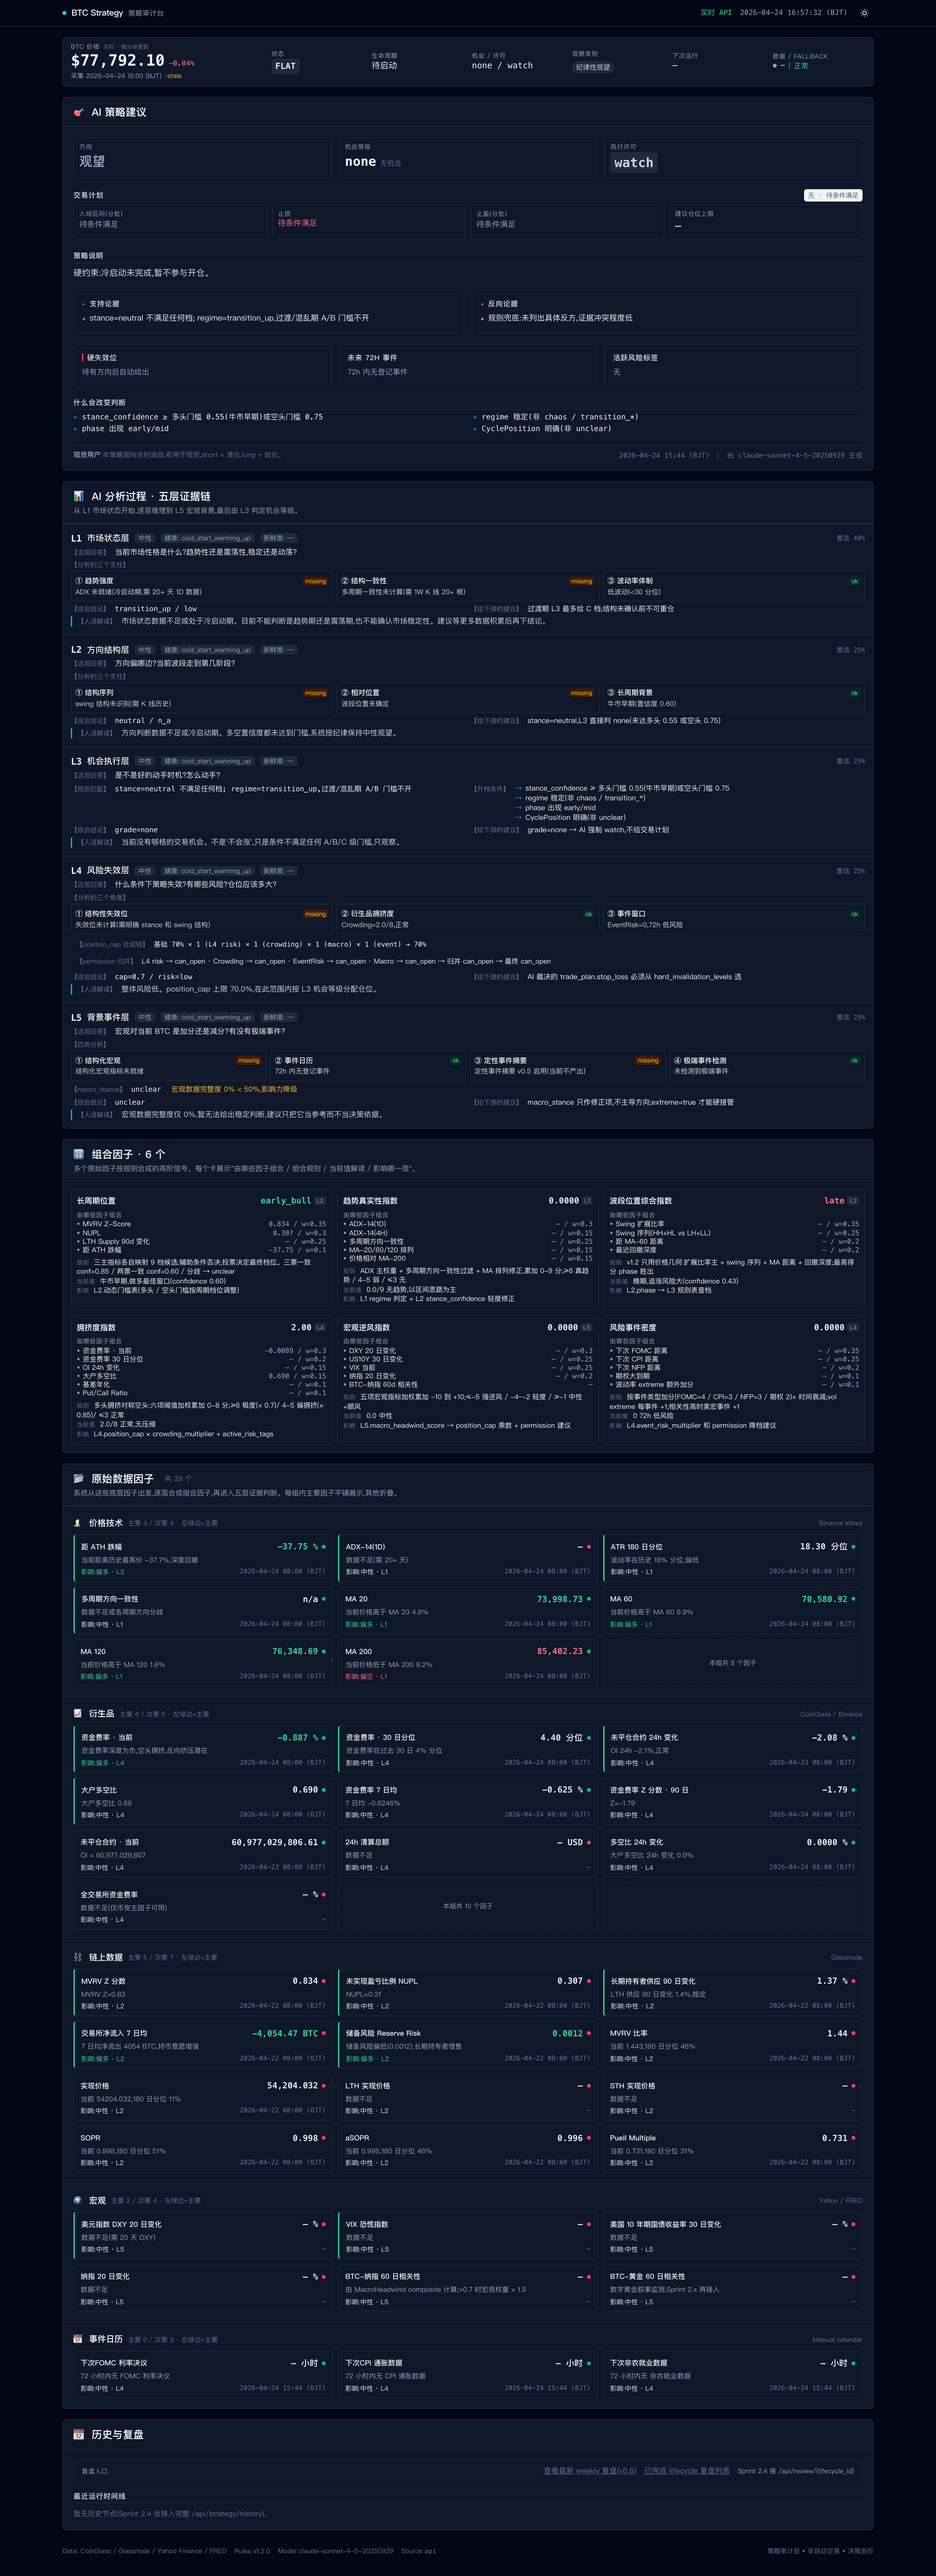
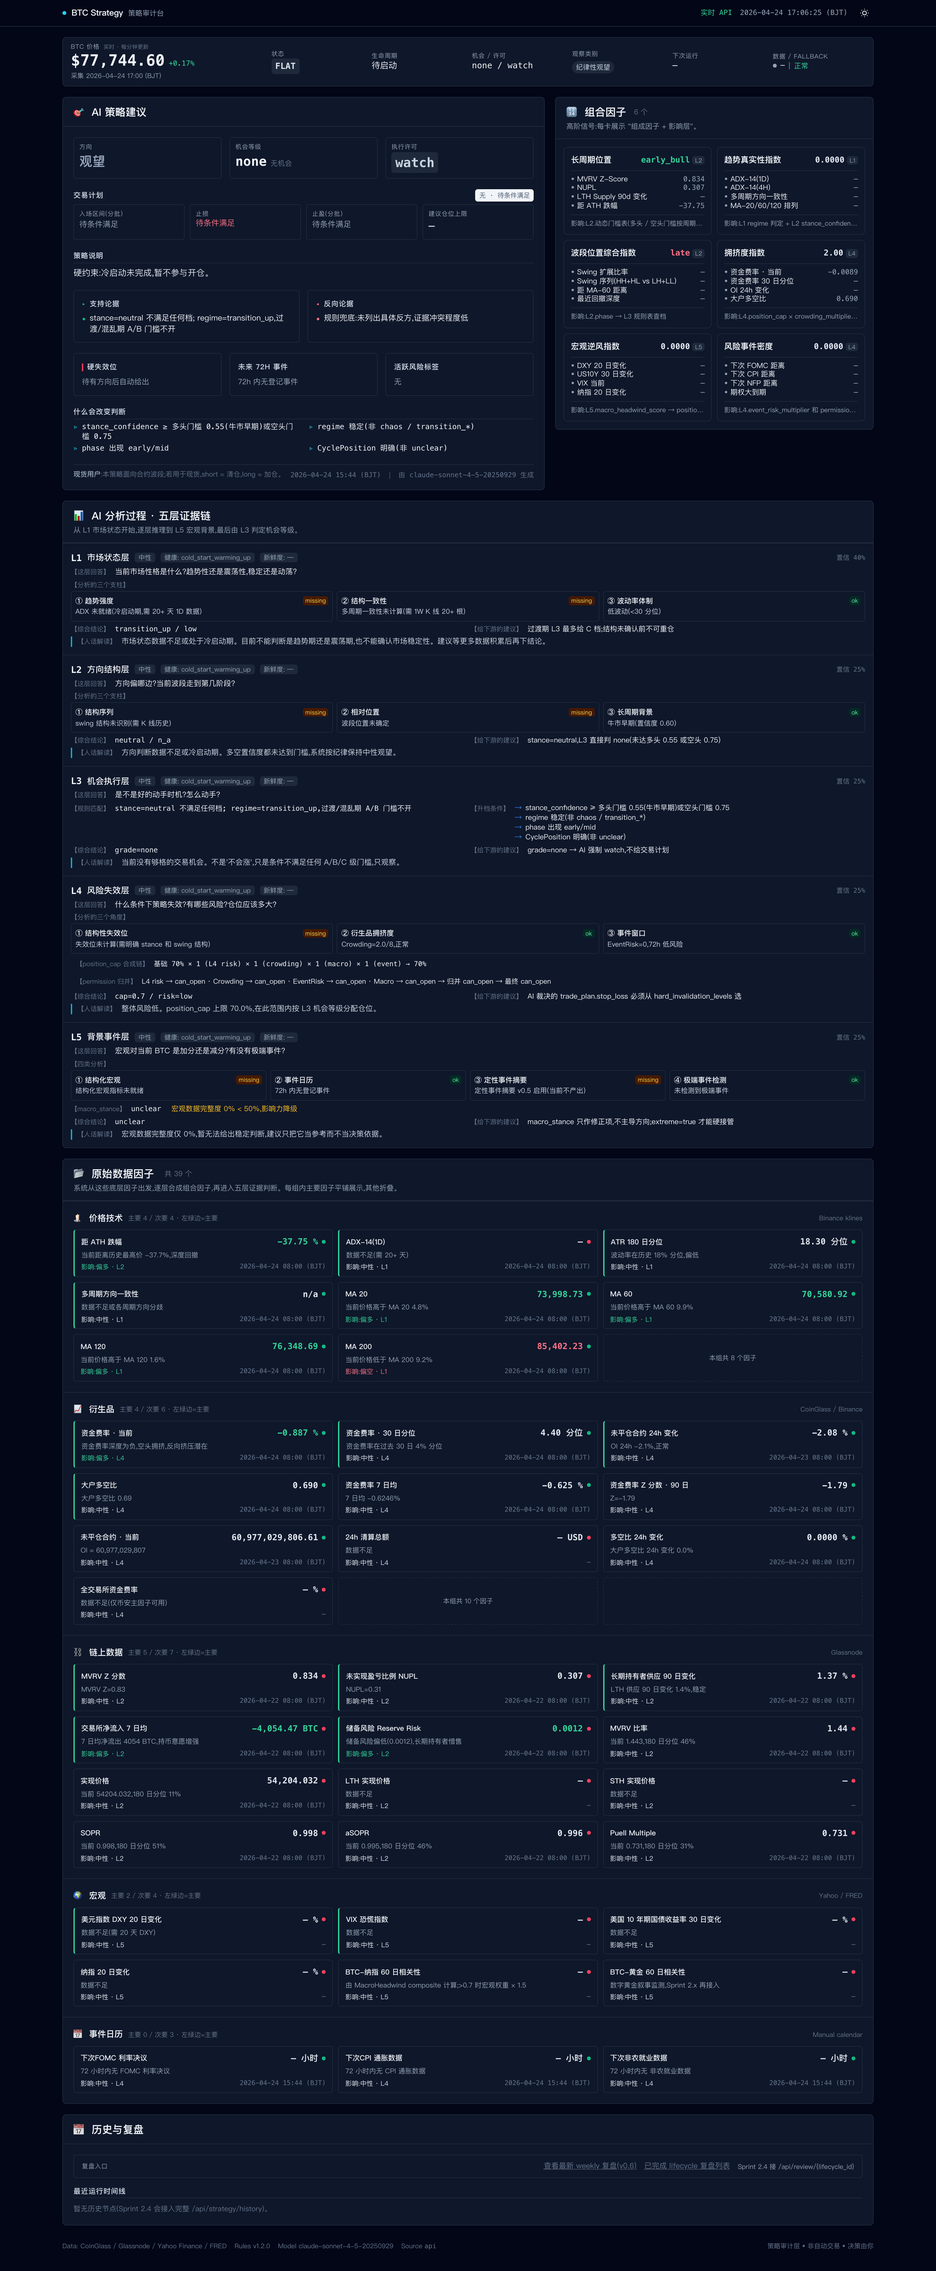
Sprint 2.3 R4: merge region1+3 side-by-side (60:40), compress five-layer pillars, fix [object Object]
- Region 1 (AI 策略) and Region 3 (组合因子) now share a
  lg:grid-cols-5 parent: left col-span-3 (~60%) + right col-span-2 (~40%).
  Mobile (< lg / 1024px) stacks top-to-bottom.
- Region 3 composite cards simplified: title + value/layer header,
  composition list (max 4), "影响:xxx" one-line footer.
  Removed detailed rule/current-value-interp text to match left height.
  Grid inside right col: grid-cols-1 sm:grid-cols-2 → 2 × 3 layout.
- Region 2 five-layer pillars stay compact from prior R4 commit:
  inline labels (text-[10px] slate-500 + mr-1), space-y-1 outer,
  pillar cards p-1.5 with text-[10.5-11px], L5 4-col.
- formatAge(seconds) helper + _freshAgeSec() so freshnessLabel(v)
  renders "green · 2h ago" / "yellow · 15min ago" etc. when
  data_freshness is the object shape {status, age_seconds, captured_at}.
  Still supports string shape for backward compat.

diff --git a/web/index.html b/web/index.html
@@ -157,9 +157,12 @@
     </section>
 
     <!-- ============================================================ -->
-    <!-- 🎯 区域 1:AI 策略建议                                       -->
+    <!-- 🎯 核心建议与高阶信号:区域 1(60% 左)+ 区域 3(40% 右)     -->
+    <!-- Sprint 2.3 R4:lg:grid-cols-5 · 3/2 分栏;手机端自然上下堆叠。-->
     <!-- ============================================================ -->
-    <section id="region-1" class="audit-card">
+    <div class="grid grid-cols-1 lg:grid-cols-5 gap-4 items-start">
+
+    <section id="region-1" class="audit-card lg:col-span-3">
       <header class="px-4 py-2.5 border-b border-slate-200 dark:border-slate-800">
         <h2 class="text-base font-semibold flex items-center gap-2">
           <span>🎯</span><span>AI 策略建议</span>
@@ -386,6 +389,73 @@
       </div>
     </section>
 
+    <!-- 右侧 40%:组合因子紧凑版(2 列 × 3 行)-->
+    <section id="region-3" class="audit-card lg:col-span-2">
+      <header class="px-4 py-2.5 border-b border-slate-200 dark:border-slate-800">
+        <h2 class="text-base font-semibold flex items-center gap-2">
+          <span>🔢</span><span>组合因子</span>
+          <span class="text-[11px] font-normal text-slate-500 ml-1">6 个</span>
+        </h2>
+        <p class="text-[11px] text-slate-500 dark:text-slate-400 mt-0.5">
+          高阶信号:每卡展示 "组成因子 + 影响层"。
+        </p>
+      </header>
+      <!-- 紧凑网格:2 × 3 -->
+      <div class="p-3 grid grid-cols-1 sm:grid-cols-2 gap-2">
+        <template x-for="c in compositeCards()" :key="c.card_id">
+          <article class="border border-slate-200 dark:border-slate-800 rounded-md
+                          p-2.5 space-y-1.5 min-w-0">
+            <!-- 标题行:名称 + 档位/值 + linked_layer -->
+            <header class="flex items-center justify-between gap-1">
+              <h4 class="text-[12.5px] font-semibold truncate"
+                  :title="c.name" x-text="c.name"></h4>
+              <div class="flex items-center gap-1 shrink-0">
+                <span class="text-[12.5px] font-mono font-bold tabular-nums"
+                      :class="directionClass(c.impact_direction)"
+                      x-text="formatFactorValue(c.current_value)"></span>
+                <span class="text-[9px] px-1 rounded bg-slate-100 dark:bg-slate-800
+                             text-slate-600 dark:text-slate-400"
+                      x-text="c.linked_layer"></span>
+              </div>
+            </header>
+
+            <!-- 细分割线 -->
+            <div class="border-t border-slate-100 dark:border-slate-800"></div>
+
+            <!-- 组成 4 项 -->
+            <ul class="space-y-0 text-[11px] leading-tight">
+              <template x-for="comp in (compositeComposition(c.card_id) || []).slice(0, 4)"
+                        :key="comp.factor_id">
+                <li class="flex items-start gap-1">
+                  <span class="text-slate-400 shrink-0">•</span>
+                  <span class="flex-1 truncate" :title="comp.name" x-text="comp.name"></span>
+                  <span class="font-mono tabular-nums text-slate-600 dark:text-slate-400 shrink-0"
+                        x-text="formatFactorValue(comp.value)"></span>
+                </li>
+              </template>
+              <li x-show="(compositeComposition(c.card_id) || []).length === 0"
+                  class="text-slate-400">组成明细未就绪</li>
+            </ul>
+
+            <!-- 细分割线 -->
+            <div class="border-t border-slate-100 dark:border-slate-800"></div>
+
+            <!-- 影响一行 -->
+            <div class="text-[10px] text-slate-500 dark:text-slate-400 leading-snug truncate"
+                 :title="compositeAffects(c.card_id) || c.strategy_impact || ''"
+                 x-text="'影响:' + (compositeAffects(c.card_id) || c.strategy_impact || '—')">
+            </div>
+          </article>
+        </template>
+        <div x-show="compositeCards().length === 0"
+             class="col-span-full text-[11px] text-slate-500 py-4 text-center">
+          暂无组合因子(冷启动期或 pipeline 失败)
+        </div>
+      </div>
+    </section>
+
+    </div> <!-- /grid 核心建议与高阶信号 -->
+
     <!-- ============================================================ -->
     <!-- 📊 区域 2:五层证据链(讲述式)                              -->
     <!-- ============================================================ -->
@@ -524,75 +594,6 @@
           </li>
         </template>
       </ul>
-    </section>
-
-    <!-- ============================================================ -->
-    <!-- 🔢 区域 3:组合因子(6 个,讲述式)                           -->
-    <!-- ============================================================ -->
-    <section id="region-3" class="audit-card">
-      <header class="px-4 py-2.5 border-b border-slate-200 dark:border-slate-800">
-        <h2 class="text-base font-semibold flex items-center gap-2">
-          <span>🔢</span><span>组合因子 · 6 个</span>
-        </h2>
-        <p class="text-[11px] text-slate-500 dark:text-slate-400 mt-0.5">
-          多个原始因子按规则合成的高阶信号。每个卡展示"由哪些因子组合 / 组合规则 / 当前值解读 / 影响哪一层"。
-        </p>
-      </header>
-      <!-- Sprint 2.3 R4:2 列 → 3 列。卡内 padding + gap + 文字压缩。 -->
-      <div class="p-3 grid grid-cols-1 md:grid-cols-2 lg:grid-cols-3 gap-2">
-        <template x-for="c in compositeCards()" :key="c.card_id">
-          <article class="border border-slate-200 dark:border-slate-800 rounded-md p-2 space-y-1.5 min-w-0">
-            <header class="flex items-center justify-between gap-1">
-              <h4 class="text-[12px] font-semibold truncate" :title="c.name" x-text="c.name"></h4>
-              <div class="flex items-center gap-1 shrink-0">
-                <span class="text-[13px] font-mono font-bold tabular-nums"
-                      :class="directionClass(c.impact_direction)"
-                      x-text="formatFactorValue(c.current_value)"></span>
-                <span class="text-[9px] px-1 rounded bg-slate-100 dark:bg-slate-800
-                             text-slate-600 dark:text-slate-400"
-                      x-text="c.linked_layer"></span>
-              </div>
-            </header>
-
-            <!-- 组成 -->
-            <div>
-              <div class="stat-label mb-0.5">由哪些因子组合</div>
-              <ul class="space-y-0 text-[10.5px]">
-                <template x-for="comp in (compositeComposition(c.card_id) || [])" :key="comp.factor_id">
-                  <li class="flex items-start gap-1 leading-tight">
-                    <span class="text-slate-400 shrink-0">•</span>
-                    <span class="flex-1 truncate" :title="comp.name" x-text="comp.name"></span>
-                    <span class="font-mono tabular-nums text-slate-600 dark:text-slate-400 shrink-0"
-                          x-text="formatFactorValue(comp.value) + (comp.weight ? ' / w=' + comp.weight : '')"></span>
-                  </li>
-                </template>
-                <li x-show="(compositeComposition(c.card_id) || []).length === 0"
-                    class="text-[10.5px] text-slate-400">组成明细未就绪</li>
-              </ul>
-            </div>
-
-            <!-- 规则 / 当前值解读 / 影响哪一层 -->
-            <div class="text-[10.5px] space-y-0 leading-snug">
-              <div>
-                <span class="text-[9px] uppercase tracking-wider text-slate-500">规则</span>
-                <span class="ml-1" x-text="compositeRule(c.card_id) || '—'"></span>
-              </div>
-              <div>
-                <span class="text-[9px] uppercase tracking-wider text-slate-500">当前值</span>
-                <span class="ml-1" x-text="compositeInterpretation(c.card_id) || c.plain_interpretation || '—'"></span>
-              </div>
-              <div>
-                <span class="text-[9px] uppercase tracking-wider text-slate-500">影响</span>
-                <span class="ml-1" x-text="compositeAffects(c.card_id) || c.strategy_impact || '—'"></span>
-              </div>
-            </div>
-          </article>
-        </template>
-        <div x-show="compositeCards().length === 0"
-             class="col-span-full text-[11px] text-slate-500 py-4 text-center">
-          暂无组合因子(冷启动期或 pipeline 失败)
-        </div>
-      </div>
     </section>
 
     <!-- ============================================================ -->

diff --git a/web/assets/app.js b/web/assets/app.js
@@ -65,16 +65,31 @@ function app() {
         },
 
         // Sprint 2.3 R4:data_freshness 可能是字符串 'green'/'yellow'/'red',
-        // 也可能是对象 {status, captured_at, age_seconds}。统一抽 status 字段。
+        // 也可能是对象 {status, captured_at, age_seconds}。统一抽 status 字段 + age。
         _freshStatus(v) {
             if (v == null) return null;
             if (typeof v === 'string') return v;
             if (typeof v === 'object') return v.status || null;
             return null;
         },
+        _freshAgeSec(v) {
+            if (v && typeof v === 'object' && typeof v.age_seconds === 'number') {
+                return v.age_seconds;
+            }
+            return null;
+        },
+        formatAge(sec) {
+            if (sec == null || !isFinite(sec)) return '';
+            if (sec < 60) return 'just now';
+            if (sec < 3600) return Math.floor(sec / 60) + 'min ago';
+            if (sec < 86400) return Math.floor(sec / 3600) + 'h ago';
+            return Math.floor(sec / 86400) + 'd ago';
+        },
         freshnessLabel(v) {
             const s = this._freshStatus(v);
-            return s || '—';
+            const age = this.formatAge(this._freshAgeSec(v));
+            if (!s) return '—';
+            return age ? `${s} · ${age}` : s;
         },
         freshnessBadgeClass(v) {
             const s = this._freshStatus(v);
